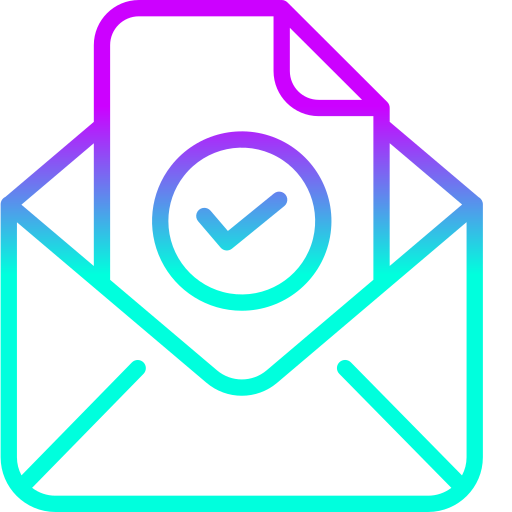
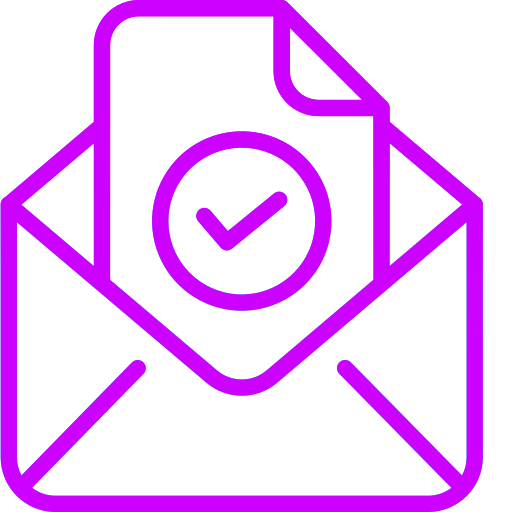
Changed images to solid color

diff --git a/layout/Dates.tsx b/layout/Dates.tsx
@@ -89,7 +89,7 @@ const Dates: FC = () => {
                             justify={'center'}
                             color={'white'}
                             rounded={'full'}
-                            bg={'linear-gradient(#00FFDD,#CC01FF)'}
+                            bg={'#CC01FF'}
                             my={2}
                         >
                             <BsCalendarDate />
@@ -127,7 +127,7 @@ const Dates: FC = () => {
                             justify={'center'}
                             color={'white'}
                             rounded={'full'}
-                            bg={'linear-gradient(#00FFDD,#CC01FF)'}
+                            bg={'#CC01FF'}
                             my={2}
                         >
                             <BsCalendarDate />
@@ -165,7 +165,7 @@ const Dates: FC = () => {
                             justify={'center'}
                             color={'white'}
                             rounded={'full'}
-                            bg={'linear-gradient(#00FFDD,#CC01FF)'}
+                            bg={'#CC01FF'}
                             my={2}
                         >
                             <BsCalendarDate />
@@ -203,7 +203,7 @@ const Dates: FC = () => {
                             justify={'center'}
                             color={'white'}
                             rounded={'full'}
-                            bg={'linear-gradient(#00FFDD,#CC01FF)'}
+                            bg={'#CC01FF'}
                             my={2}
                         >
                             <BsCalendarDate />
